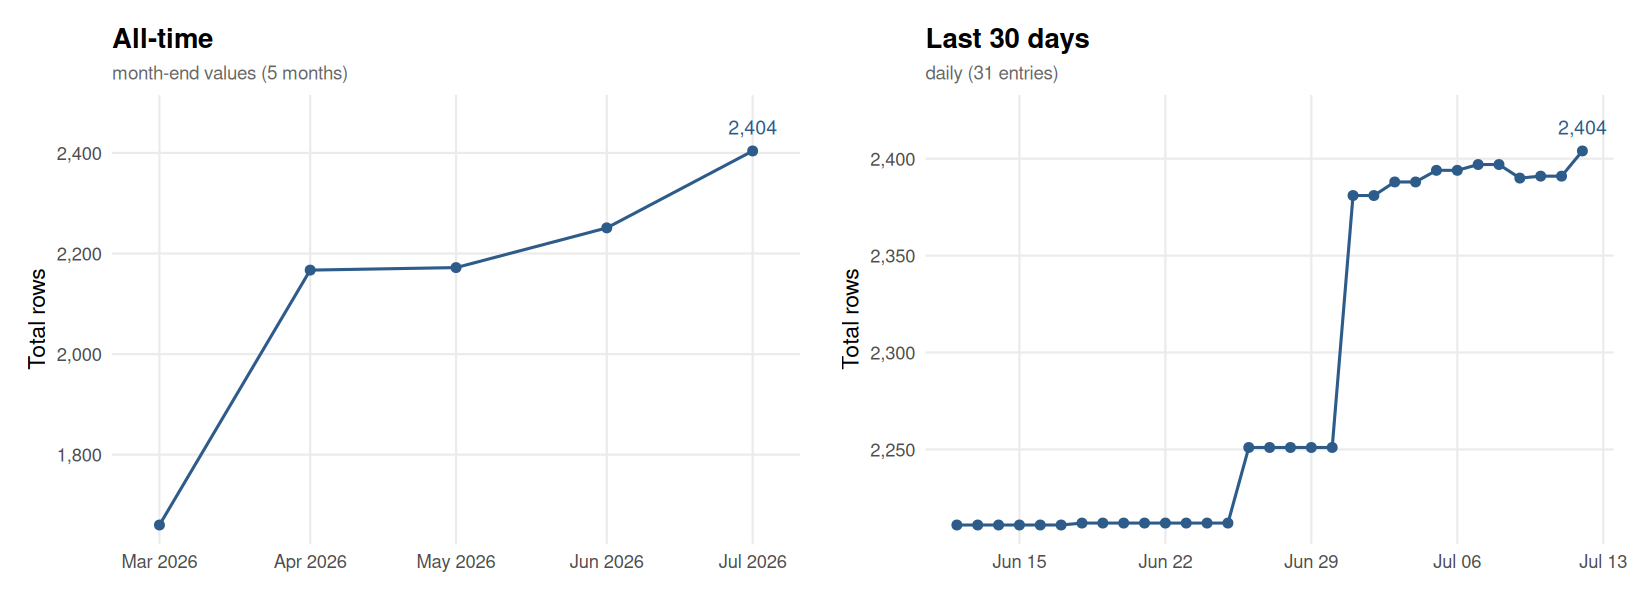
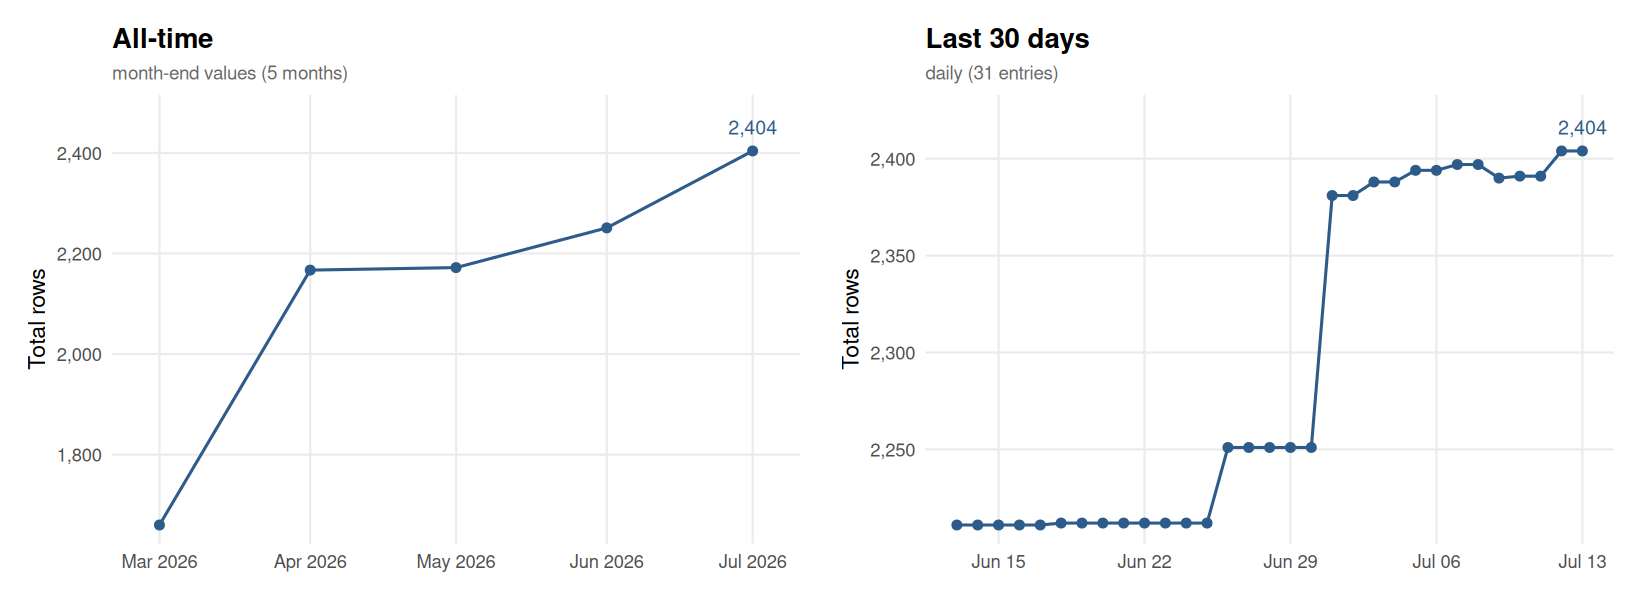
Update flora.csv [automated]

diff --git a/README.md b/README.md
@@ -438,14 +438,15 @@ For API issues:
 This chart is automatically updated after each pipeline run, showing the size of `output/flora.csv` over time.
 
 <!-- FLORA_UPDATE_LOG_START -->
-> **Latest (2026-07-12):** Total = 2,404 | Replications = 2,393 | Reproductions = 11
+> **Latest (2026-07-13):** Total = 2,404 | Replications = 2,393 | Reproductions = 11
 
 ![FLoRA dataset size over time](output/flora_history.png)
 
-<details><summary>Full history (115 entries)</summary>
+<details><summary>Full history (116 entries)</summary>
 
 | Date | Total | Replications | Reproductions |
 |------|------:|-------------:|--------------:|
+| 2026-07-13 | 2404 | 2393 | 11 |
 | 2026-07-12 | 2404 | 2393 | 11 |
 | 2026-07-11 | 2391 | 2381 | 10 |
 | 2026-07-10 | 2391 | 2381 | 10 |
